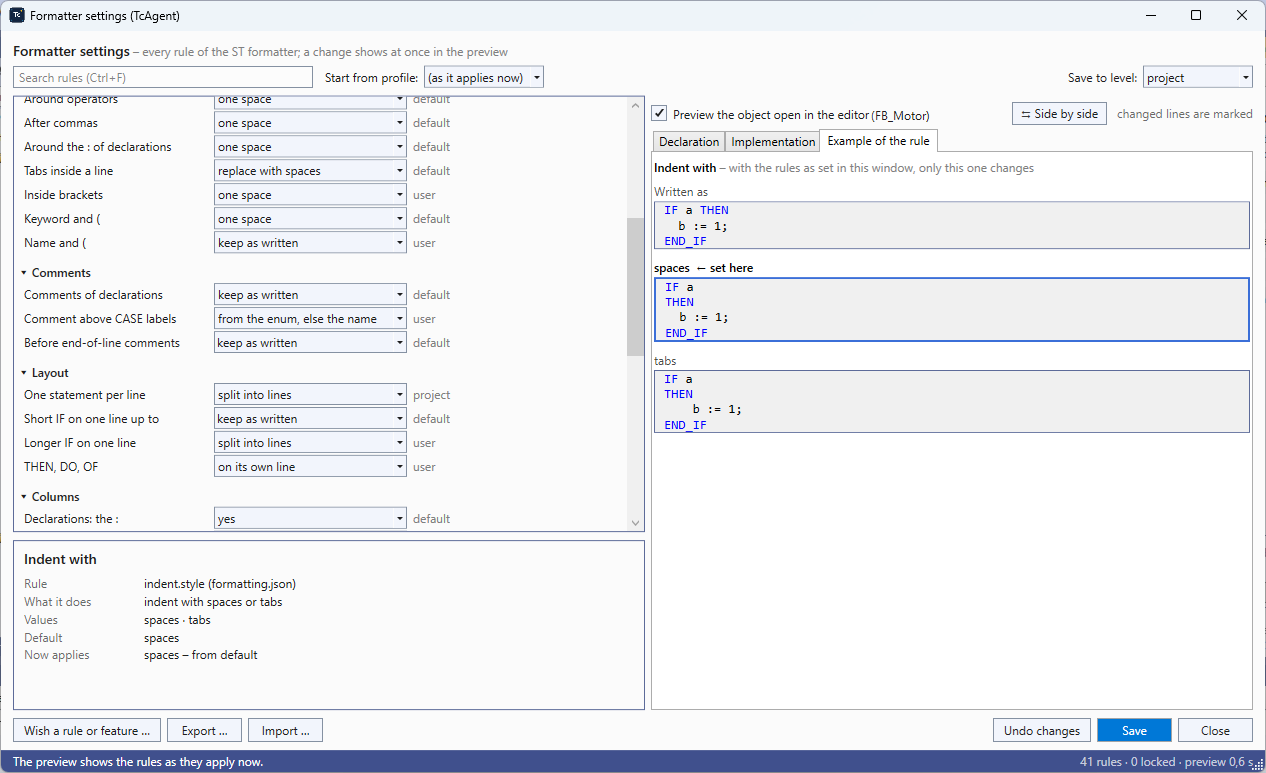
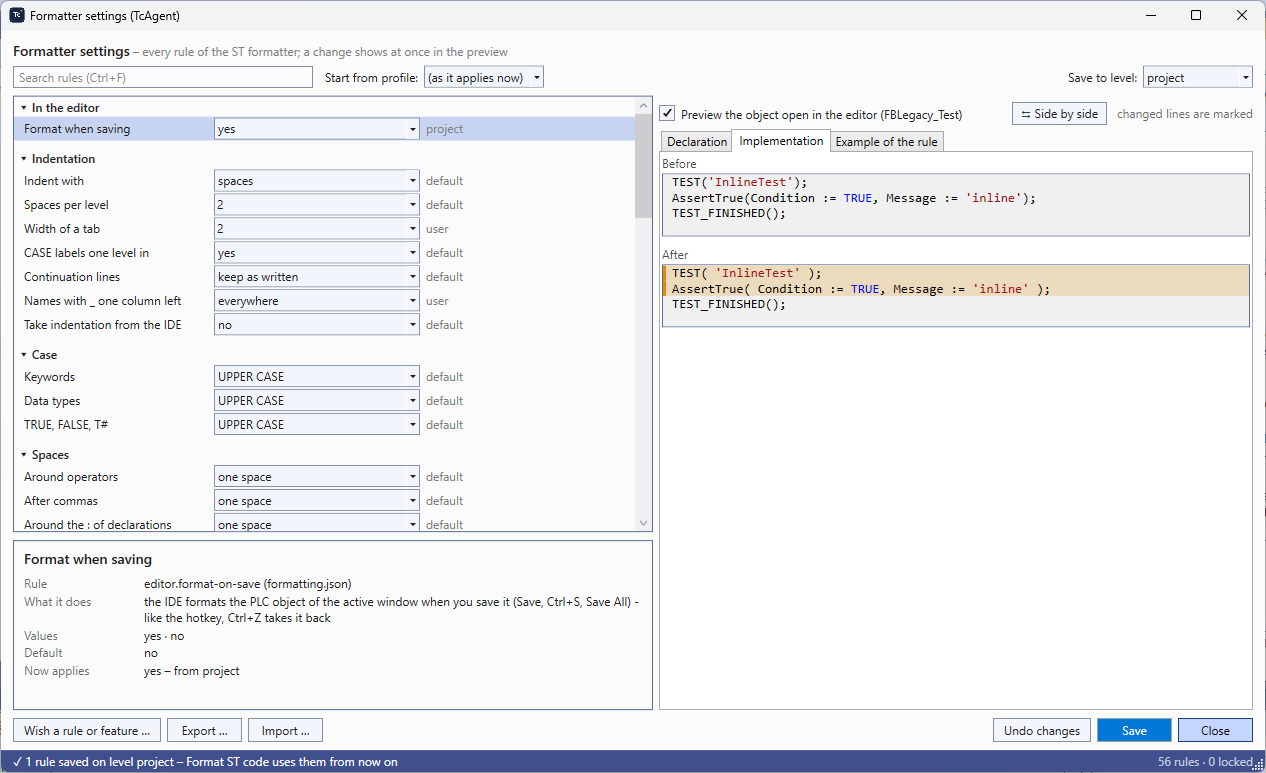
Docs: screenshots for 0.56.0
- docs/img/formatter-settings.png: the formatter settings with the new
  group "In the editor" / "Format when saving".
- docs/img/chat/refactor-card.png (new): the tc_refactor card in the
  TcAgent Chat (Apply / Apply all / Reject / Cancel), shown in the
  USER_GUIDE refactoring steps, whose text now says card in the chat,
  otherwise a dialog or the client's question.
The page "Gates and confirmations" (settings/gates.png) waits for a
retake without the "set from outside" note.

diff --git a/docs/USER_GUIDE.md b/docs/USER_GUIDE.md
@@ -1089,9 +1089,11 @@ confirmed by you**.
    TcLinkTo, persistent/retain, HMI files).
 2. The agent proposes changes: comments where missing (meaning, unit, range), new names only where a name is really
    unclear, following your naming rules.
-3. `tc_refactor action=apply changes=[...]` asks you **per change**: **Apply / Apply all / Reject / Cancel** – a dialog
-   in Visual Studio (TcAgent Chat) or your client's question dialog.
+3. `tc_refactor action=apply changes=[...]` asks you **per change**: **Apply / Apply all / Reject / Cancel** – a card
+   in the TcAgent Chat while the chat is working, otherwise a dialog in Visual Studio or your client's question dialog.
 4. The agent runs `tc_check` afterwards.
+
+   <img src="img/chat/refactor-card.png" width="460" alt="Card in the TcAgent Chat: rename a function block, the diff of the declaration, Apply / Apply all / Reject / Cancel">
 
 Comments go as `// ...` on the declaration line or `/// ...` above (as your rules say). Renames are whole-word edits
 outside strings and comments in the object (and its members/derived FBs for FB variables) and – for names visible
